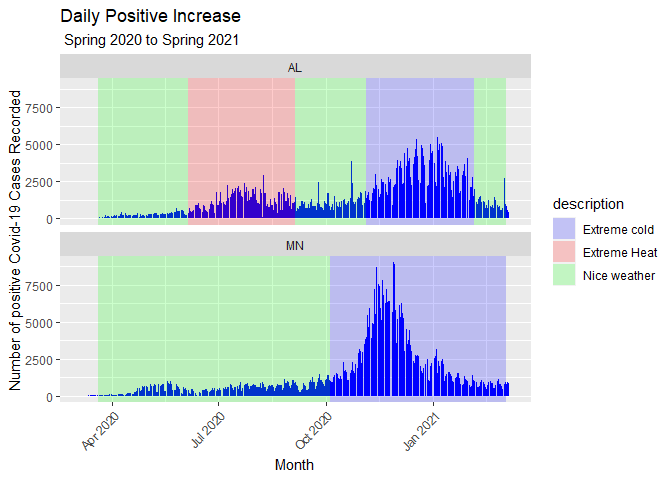
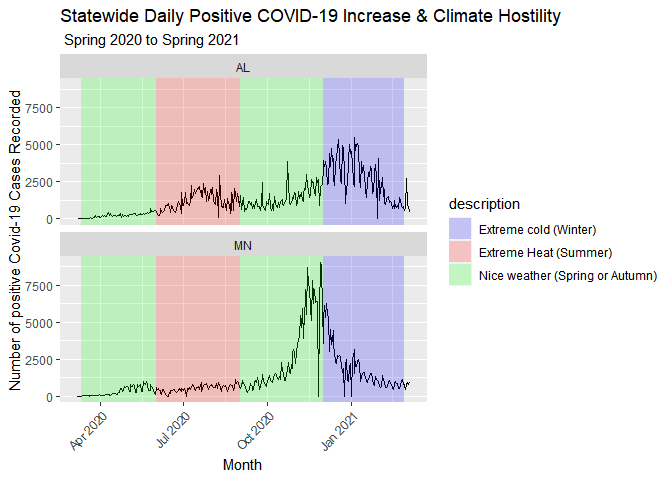
commit

diff --git a/README.md b/README.md
@@ -1,7 +1,9 @@
 
 <img src="https://www2.mnstate.edu/uploadedImages/Content/Marketing/logos/MSUM_Signature_Vert_Color.jpg" alt="MSUM logo" width="200" style="float:right">
 
-# Statistical Analysis of Positive Covid-19 case Increase in States of Varying Climate Hostility
+# Statistical Analysis of Positive COVID-19 case Increase in States of Varying Climate Hostility
+
+Presentation ID: 4974
 
 Alec White & Dr. Christopher Merkord
 
@@ -16,37 +18,40 @@ Submit a survey for this presentation:
 ## Abstract
 
 The data being analyzed in this experiment will come from the Minnesota
-and Alabama Covid-19 (SARS-CoV-2) datasets at The COVID Tracking
+and Alabama COVID-19 (SARS-CoV-2) datasets at The COVID Tracking
 Project. During this exploratory data analysis, I will be comparing the
 daily positive case increase in the States of Minnesota & Alabama due to
 their differences in climate hostility throughout the seasons of the
 year and similar population size. During this analysis, recorded data
-over the course of a roughly 12-month period from 2/2020 to 3/2021 will
-be analyzed in respect to the local climate Since data on Covid-19 began
-began getting a recorded daily. A possible result that may be concluded
-from this statistical analysis is that there will be a difference in the
-percentage of positive case increases during times of the year where the
-climate in these states is considered hostile.
+over the course of a roughly 13-month period from 2/2020 to 3/2021 will
+be analyzed in respect to the local seasonal climate since data on
+COVID-19 began getting recorded daily. A possible result that may be
+concluded from this statistical analysis is that there will be a
+difference in the percentage of positive case increases during times of
+the year where the climate in these states is considered hostile.
 
 ## Introduction
 
-For the past 12 months Covid-19 has been a prominent scientific topic in
+For the past 12 months COVID-19 has been a prominent scientific topic in
 both the United States and the world due to its relatively high
 mortality rate and ability to spread efficiently and unpredictably. The
 effects of this viral agent have been the cause of many hospitalizations
 and deaths in a wide range of age groups and heath statuses.
 
-There has been a large number of studies related to Covid-19 have since
+There has been a large number of studies related to COVID-19 have since
 been released due to the large effect it has had on the world
-population’s daily lives. With how widespread Covid-19 has become,
+population’s daily lives. With how widespread COVID-19 has become,
 many location related questions can be asked, such as does the
 percentage of positive case increases have a correlation with a
 location’s climate and the local population’s response to the
 hostilities associated with that climate during different portions of
-the year?
+the year? This data may be used to help predict increases in positive
+case rates while certain climate changes are approaching within the
+different states and to allow medical services to be more adequately
+prepared for a heavier flow of positive COVID-19 cases.
 
 To show how a population’s response to local climate hostility may be
-affecting the Covid-19 positive case increase I will be taking daily
+affecting the COVID-19 positive case increase I will be taking daily
 data from two populations with different climates over the course of one
 year.
 
@@ -81,7 +86,18 @@ target data variables within a the plot function &&&. After this I
 
 ## Results
 
+The results are based off of daily Covid-19 positive case increase
+between the states of Alabama and Minnesota with respect to
+seasons(Summer, Winter, ect.) and the climates associated with them
+
+There is a steady increase in the number positive cases recorded during
+seasons of extreme temperatures in both Minnesota and Alabama. (Figure
+1.)
+
 ![](README_files/figure-gfm/unnamed-chunk-1-1.png)<!-- -->
+
+Figure 1. Daily reported Covid-19 Positive increase values with Weather
+hostility patterns in regards to state climate.
 
 ## Discussion
 
